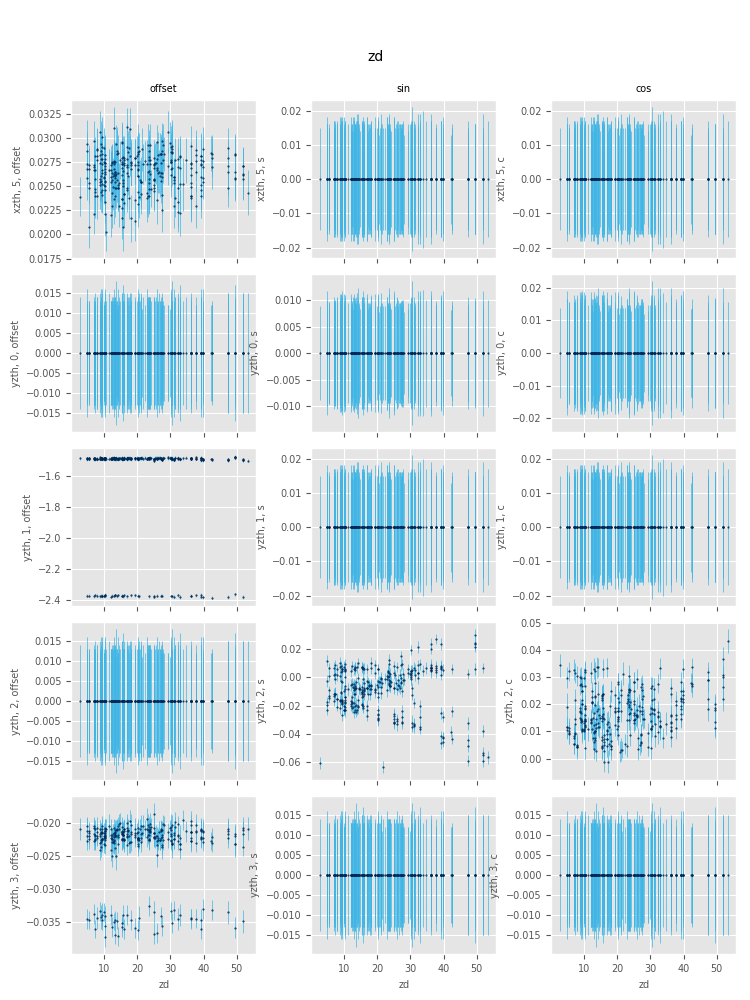
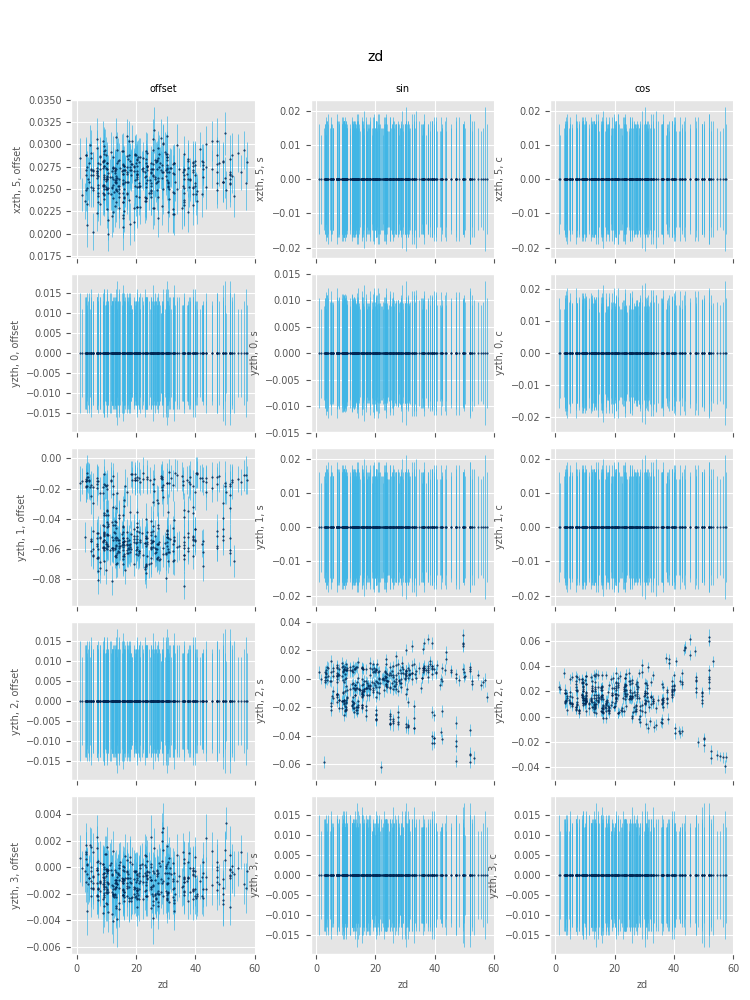
add new nights data

diff --git a/python/munge.py b/python/munge.py
@@ -33,7 +33,10 @@ HEADER_PARAMS = {
     'pressure': 'PRESSURE',
 }
 
-MIN_NUM_FIDUCIALS = 110
+FOCUS_ELEMENTS = ('xtrans', 'ytrans', 'ztrans', 'xtilt', 'ytilt', 'ztilt')
+
+#MIN_NUM_FIDUCIALS = 110
+MIN_NUM_FIDUCIALS = 100
 MAX_POS_RMS = 0.05
 
 # exception classes
@@ -96,6 +99,13 @@ def read_one_fits_header_params(expid, fits_dir):
     hdus = fits.open(fname)
     for key in HEADER_PARAMS:
         values[key] = hdus[0].header[HEADER_PARAMS[key]]
+
+    # Parse FOCUS keyword
+    focus_values = tuple(
+        float(v) for v in hdus[0].header['FOCUS'].split(','))
+    for elem, value in zip(FOCUS_ELEMENTS, focus_values):
+        values[f'focus_{elem}'] = value
+    
     result = pd.Series(values, name=expid)
     return result
 
@@ -172,6 +182,13 @@ def read_zths(zth_dir, qcinv):
 
 def read_fvcMerge(expid, data_dir):
     fname = f'{data_dir}/{expid}/fvcMerge-{expid}.dat'
+    try:
+        fiducials = pd.read_csv(fname, sep="\s+")
+        return fiducials
+    except:
+        pass
+
+    fname = f'{data_dir}/{expid}/fvcMerge-{expid}.0.dat'
     try:
         fiducials = pd.read_csv(fname, sep="\s+")
     except:
